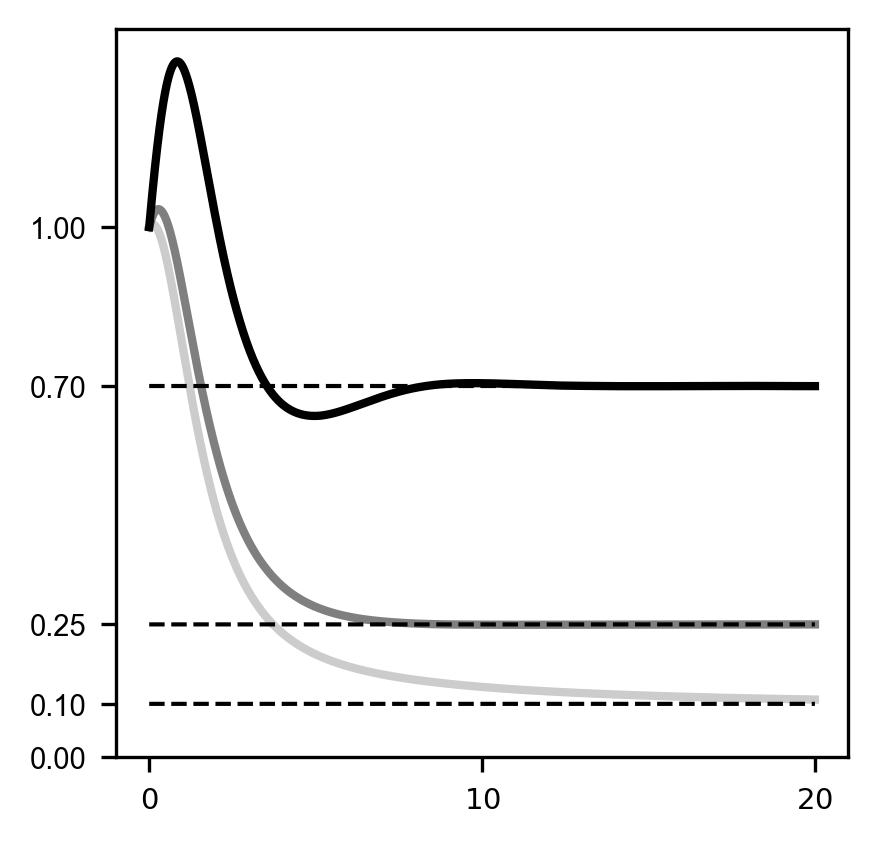
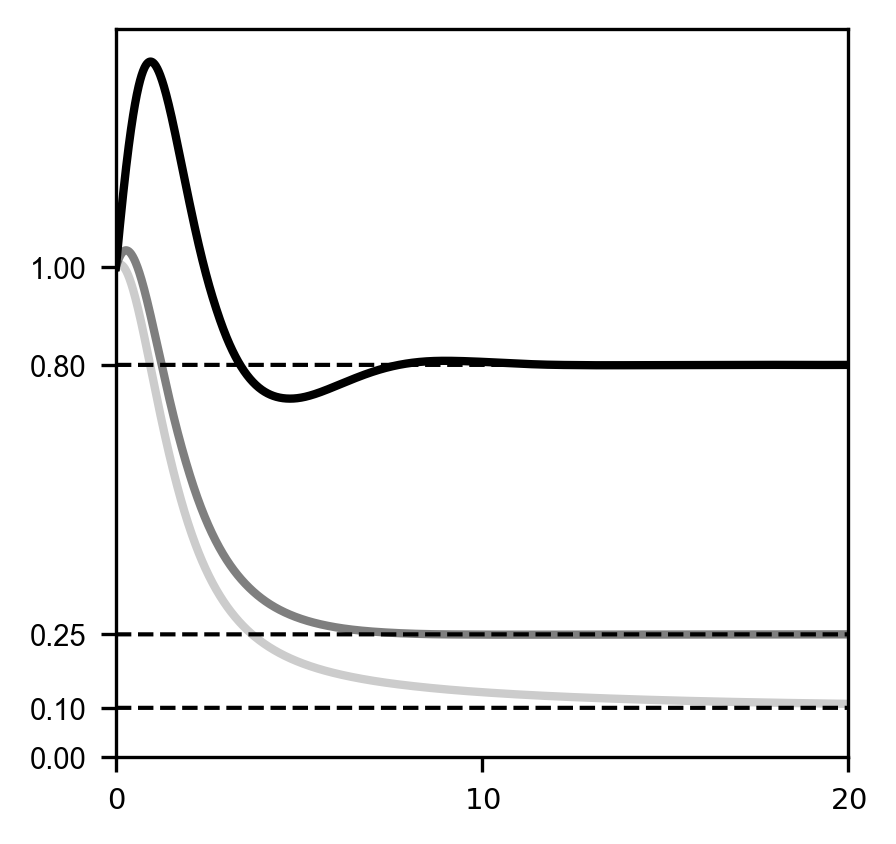
Added examples and made better

Changed region(s): [[0.0308, 0.0308, 0.9841, 0.955], [0.5228, 0.8934, 0.5843, 0.9858]]

diff --git a/RawFigures/Phase_Diagram.py b/RawFigures/Phase_Diagram.py
@@ -23,7 +23,7 @@ def system(t, y, a):
     return [dXdt, dQdt]
 
 # Parameters
-alphas = [0.1, 0.25, 0.7]
+alphas = [0.1, 0.25, 0.8]
 t_span = (0, 20)
 t_eval = np.linspace(*t_span, 2000)
 y0 = [1,0]
@@ -72,7 +72,7 @@ ax.yaxis.set_major_formatter(FormatStrFormatter('%.2f'))
 plt.xticks(fontsize=7, fontname='Arial')
 plt.yticks(fontsize=7, fontname='Arial')
 
-
+plt.xlim(0,t_span[-1])
 
 plt.savefig("Example_Solutions.png",bbox_inches='tight', dpi=300)
 
